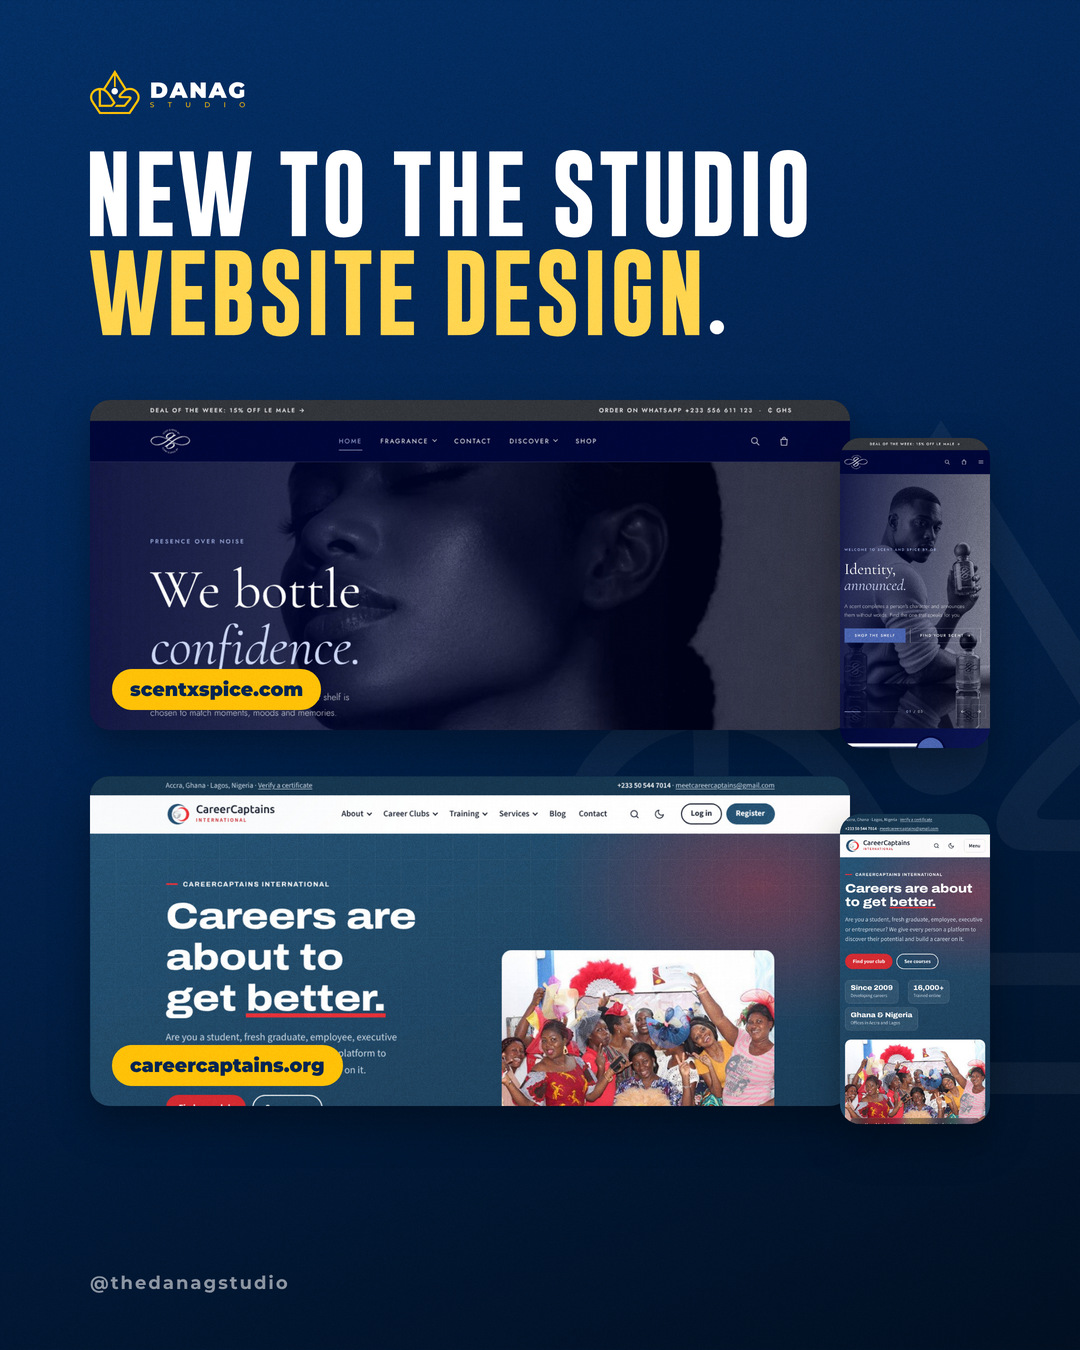
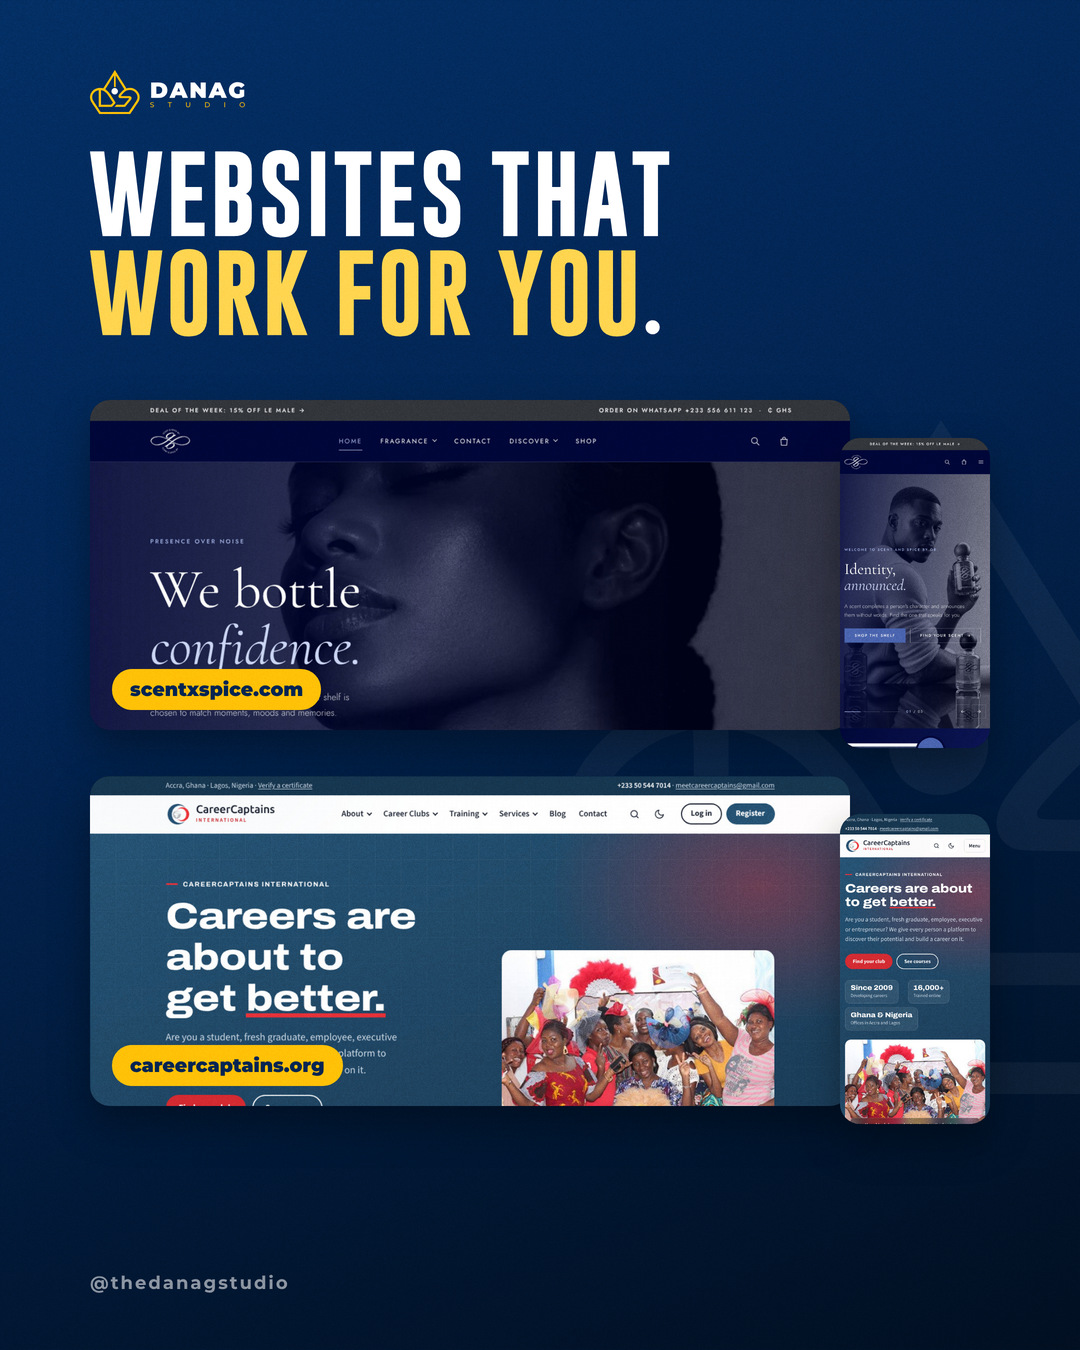
Website slide: new headline
Claude-Session: https://claude.ai/code/session_016a1VN4sEuNiBsko23wNLQZ

Changed region(s): [[0.0611, 0.0933, 0.7639, 0.2489]]

diff --git a/promo/render_folio_dark.py b/promo/render_folio_dark.py
@@ -149,7 +149,7 @@ web = ''.join(f"""<div style="position:relative;width:900px;height:330px">{tile(
 <div style="position:absolute;right:0;bottom:-18px">{tile(m, 150, 310, 'top')}</div>
 <div style="position:absolute;left:22px;bottom:20px;background:{GOLD};color:#022452;font-weight:900;font-size:19px;padding:9px 18px;border-radius:20px">{t}</div></div>"""
               for d, m, t in [('web-ss-desktop', 'web-ss-mobile', 'scentxspice.com'), ('web-cc-desktop', 'web-cc-mobile', 'careercaptains.org')])
-SL.append(page(f"""<div class="a" style="left:90px;top:150px">{stack('NEW TO THE STUDIO', 'WEBSITE DESIGN', 84)}</div>
+SL.append(page(f"""<div class="a" style="left:90px;top:150px">{stack('WEBSITES THAT', 'WORK FOR YOU', 84)}</div>
 <div class="a" style="left:90px;top:400px;display:flex;flex-direction:column;gap:46px">{web}</div>"""))
 # 14 reviews quotes
 card = lambda t, n, big=False: (f'<div style="border:2px solid rgba(255,193,7,.6);border-radius:24px;padding:{36 if big else 28}px;background:rgba(1,15,33,.45)">'
@@ -185,6 +185,7 @@ with sync_playwright() as p:
     b = p.chromium.launch(executable_path='/usr/bin/google-chrome')
     pg = b.new_page(viewport={'width': 1080, 'height': 1350}, device_scale_factor=2)
     for k, h in enumerate(SL, 1):
+        if os.environ.get('ONLY') and str(k) != os.environ['ONLY']: continue
         t = f'/tmp/_fd{k}.html'; open(t, 'w').write(h); pg.goto(pathlib.Path(t).as_uri()); pg.wait_for_timeout(900)
         pg.evaluate("""()=>{for(const s of document.querySelectorAll('svg.hs')){const bb=s.getBBox();
             s.setAttribute('viewBox',`${bb.x} ${bb.y} ${bb.width} ${bb.height}`);s.setAttribute('width',bb.width);s.setAttribute('height',bb.height)}}""")
